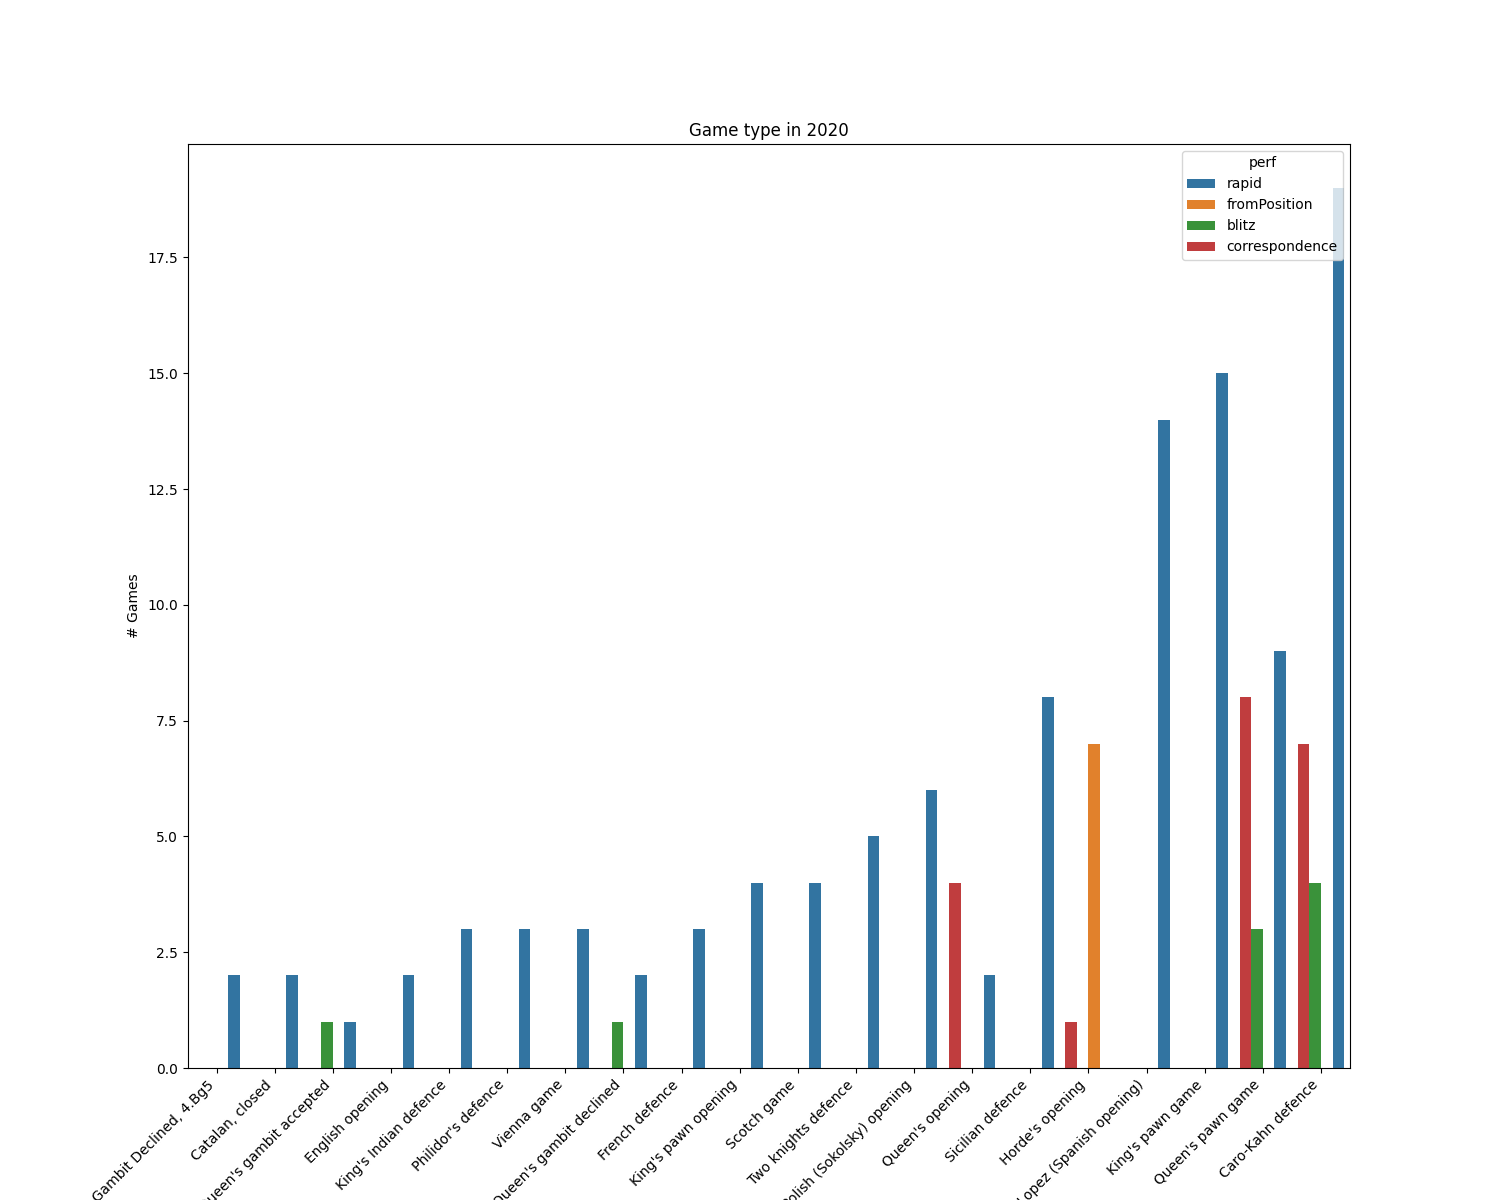
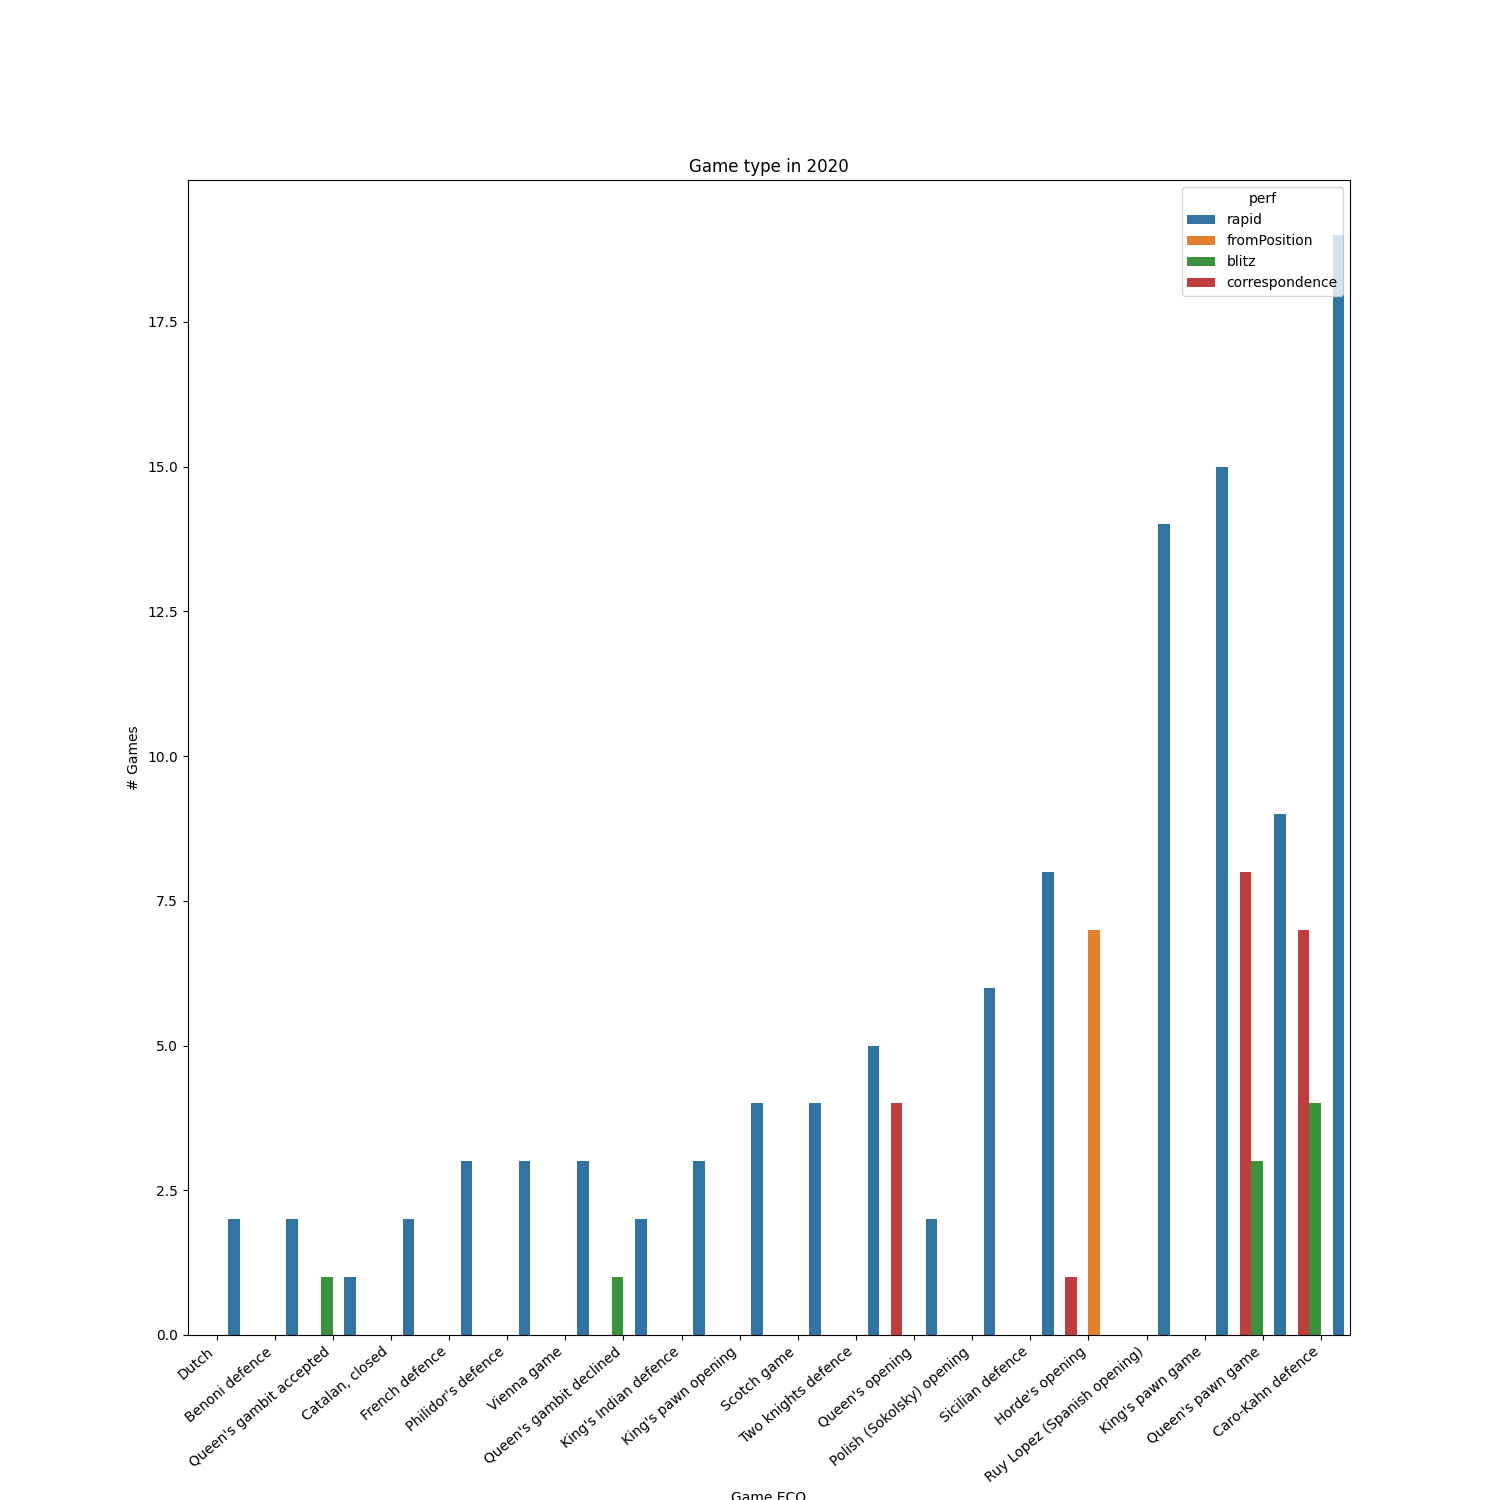
Refreshing graphs

diff --git a/app/services/analysis/plots.py b/app/services/analysis/plots.py
@@ -57,7 +57,7 @@ def plot_opening_diversity_2020(state: State):
     try:
         df = state.games.df.loc[state.games.df["date_year"] == "2020"]
 
-        plt.figure(figsize=(15, 12))
+        plt.figure(figsize=(15, 15))
         chart = sns.countplot(
             data=df,
             x='opening.name.aggregate',
@@ -65,7 +65,7 @@ def plot_opening_diversity_2020(state: State):
             order=df["opening.name.aggregate"].value_counts().iloc[:20].index
         )
         chart.set_xticklabels(chart.get_xticklabels(),
-                              rotation=45,
+                              rotation=40,
                               horizontalalignment='right',
                               )
         chart.invert_xaxis()
